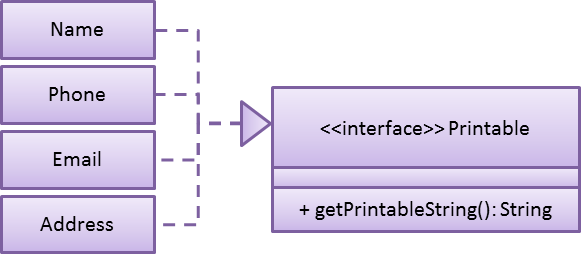
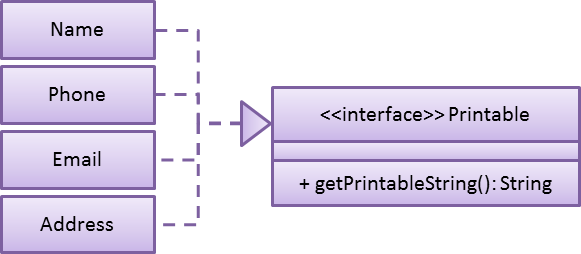
Tweak images of LO-ISP

Changed region(s): [[0.4647, 0.6063, 1.0, 0.937], [0.4647, 0.4134, 1.0, 0.5787]]

diff --git a/doc/LearningOutcomes.md b/doc/LearningOutcomes.md
@@ -74,7 +74,7 @@ The *Interface-Segregation Principle (ISP)* states that no client should be forc
 
 Note how the `Person` class implements the `ReadOnlyPerson` interface so that clients who don't need write access to
 `Person` objects can access `Person` objects through the `ReadOnlyPerson` interface instead.
-<img src="images/ReadOnlyPersonUsage.png" />
+<img src="images/ReadOnlyPersonUsage.png" width='400' />
 
 ##### Exercise: Add a `Printable` interface 
 
@@ -88,8 +88,8 @@ Note how the `Person` class implements the `ReadOnlyPerson` interface so that cl
   
   ```java
   /**
-   * Returns a concatenated version of the printable strings of each object.
-   */
+    * Returns a concatenated version of the printable strings of each object.
+    */
   String getPrintableString(Printable... printables){
   ```
   
@@ -100,5 +100,5 @@ Note how the `Person` class implements the `ReadOnlyPerson` interface so that cl
   //p is a Person object
   return getPrintableString(p.getPhone(), p.getEmail(), p.getAddress()); 
   ```
-}
+
 
